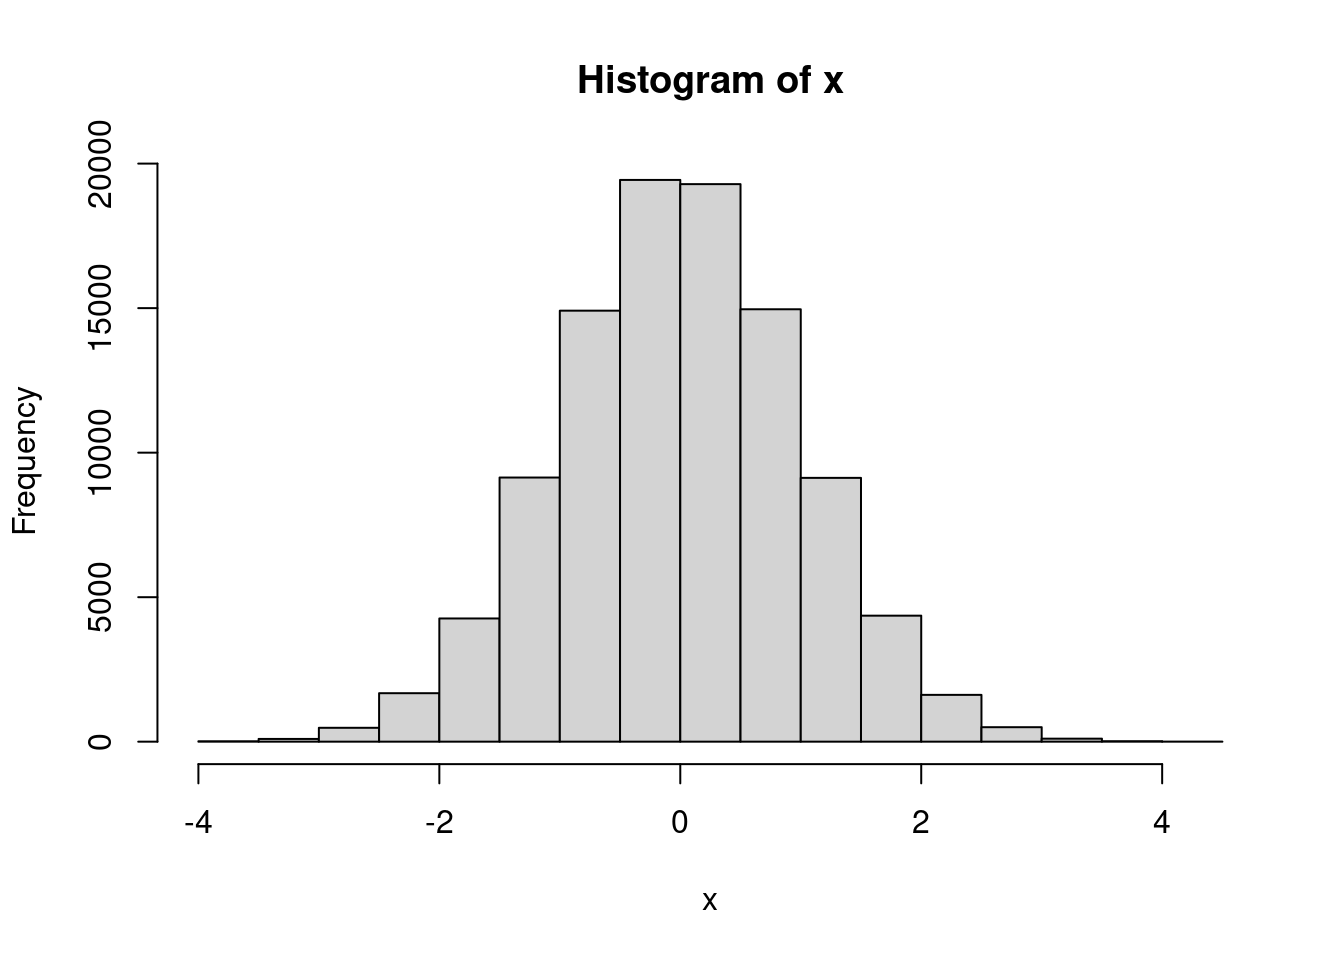
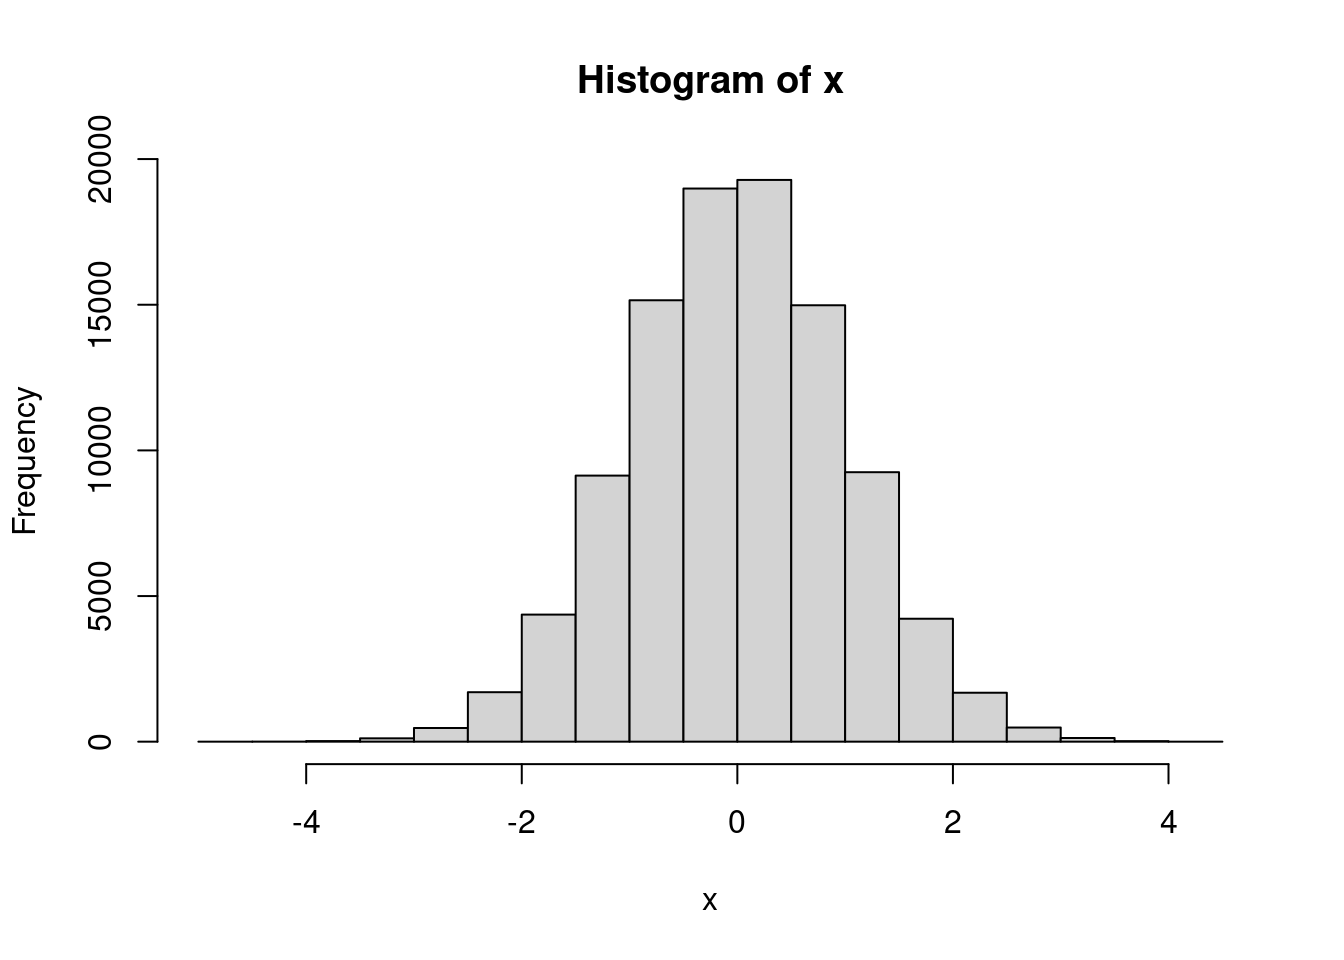
Deploying to gh-pages from @ tidyverse/design@dd1459c90f81d67872ce4a16c97231b60ae31a4d 🚀

diff --git a/spooky-action.html b/spooky-action.html
@@ -520,7 +520,7 @@ pre > code.sourceCode > span > a:first-child::before { text-decoration: underlin
 <span>  <span class="fu">lubridate</span><span class="fu">::</span><span class="fu"><a href="https://lubridate.tidyverse.org/reference/now.html">now</a></span><span class="op">(</span><span class="op">)</span></span>
 <span><span class="op">}</span></span>
 <span><span class="fu">current_time</span><span class="op">(</span><span class="op">)</span></span>
-<span><span class="co">#&gt; [1] "2023-07-20 19:16:26 UTC"</span></span></code><button title="Copy to Clipboard" class="code-copy-button"><i class="bi"></i></button></pre></div>
+<span><span class="co">#&gt; [1] "2023-07-20 19:20:27 UTC"</span></span></code><button title="Copy to Clipboard" class="code-copy-button"><i class="bi"></i></button></pre></div>
 </div>
 </section><section id="ask-for-confirmation" class="level3" data-number="32.3.3"><h3 data-number="32.3.3" class="anchored" data-anchor-id="ask-for-confirmation">
 <span class="header-section-number">32.3.3</span> Ask for confirmation</h3>
@@ -671,8 +671,8 @@ pre > code.sourceCode > span > a:first-child::before { text-decoration: underlin
 <span></span>
 <span><span class="fu"><a href="https://rdrr.io/r/base/cbind.html">rbind</a></span><span class="op">(</span><span class="va">x</span>, <span class="va">out</span><span class="op">)</span></span>
 <span><span class="co">#&gt;     [,1] [,2] [,3] [,4] [,5] [,6] [,7] [,8] [,9] [,10]</span></span>
-<span><span class="co">#&gt; x      7   13    9    8   14   14    7   13   10    13</span></span>
-<span><span class="co">#&gt; out    7   20   29   37   51   65   72   85   95   108</span></span></code><button title="Copy to Clipboard" class="code-copy-button"><i class="bi"></i></button></pre></div>
+<span><span class="co">#&gt; x     13   13    8    7   10   17   10   14   11    14</span></span>
+<span><span class="co">#&gt; out   13   26   34   41   51   68   78   92  103   117</span></span></code><button title="Copy to Clipboard" class="code-copy-button"><i class="bi"></i></button></pre></div>
 </div>
 <p>A simple transformation from to use <code><a href="https://purrr.tidyverse.org/reference/map.html">map()</a></code> doesn’t work:</p>
 <div class="cell" data-hash="spooky-action_cache/html/unnamed-chunk-15_88f7eda8454a50bac907f06071f5cfbc">
@@ -685,7 +685,7 @@ pre > code.sourceCode > span > a:first-child::before { text-decoration: underlin
 <span>    <span class="va">out</span><span class="op">[[</span><span class="va">i</span><span class="op">]</span><span class="op">]</span> <span class="op">&lt;-</span> <span class="va">x</span><span class="op">[[</span><span class="va">i</span><span class="op">]</span><span class="op">]</span> <span class="op">+</span> <span class="va">out</span><span class="op">[[</span><span class="va">i</span> <span class="op">-</span> <span class="fl">1</span><span class="op">]</span><span class="op">]</span></span>
 <span>  <span class="op">}</span></span>
 <span><span class="op">}</span><span class="op">)</span></span>
-<span><span class="co">#&gt;  [1]  7 13  9  8 14 14  7 13 10 13</span></span></code><button title="Copy to Clipboard" class="code-copy-button"><i class="bi"></i></button></pre></div>
+<span><span class="co">#&gt;  [1] 13 13  8  7 10 17 10 14 11 14</span></span></code><button title="Copy to Clipboard" class="code-copy-button"><i class="bi"></i></button></pre></div>
 </div>
 <p>Because the modification of <code>out</code> is happening inside of a function, R creates a copy of <code>out</code> (this is called <a href="https://adv-r.hadley.nz/names-values.html#copy-on-modify">copy-on-modify principle</a>). Instead we need to use <code>&lt;&lt;-</code> to reach outside of the function to modify the outer <code>out</code>:</p>
 <div class="cell" data-hash="spooky-action_cache/html/unnamed-chunk-16_8c6961ff51700fbd420c7e2cf12a76b0">
@@ -696,7 +696,7 @@ pre > code.sourceCode > span > a:first-child::before { text-decoration: underlin
 <span>    <span class="va">out</span><span class="op">[[</span><span class="va">i</span><span class="op">]</span><span class="op">]</span> <span class="op">&lt;&lt;-</span> <span class="va">x</span><span class="op">[[</span><span class="va">i</span><span class="op">]</span><span class="op">]</span> <span class="op">+</span> <span class="va">out</span><span class="op">[[</span><span class="va">i</span> <span class="op">-</span> <span class="fl">1</span><span class="op">]</span><span class="op">]</span></span>
 <span>  <span class="op">}</span></span>
 <span><span class="op">}</span><span class="op">)</span></span>
-<span><span class="co">#&gt;  [1]   7  20  29  37  51  65  72  85  95 108</span></span></code><button title="Copy to Clipboard" class="code-copy-button"><i class="bi"></i></button></pre></div>
+<span><span class="co">#&gt;  [1]  13  26  34  41  51  68  78  92 103 117</span></span></code><button title="Copy to Clipboard" class="code-copy-button"><i class="bi"></i></button></pre></div>
 </div>
 <p>This use of <code>&lt;&lt;-</code> is a spooky action because we’re reaching up the tree of environments to modify an object created outside of the function. In this case, however, there’s no point in using <code><a href="https://purrr.tidyverse.org/reference/map.html">map()</a></code>: the point of those functions is to restrict what you can do compared to a for loop so that your code is easier to understand. <a href="https://r4ds.had.co.nz/iteration.html#for-loop-variations">R for data science</a> has other examples of for loops that <em>could</em> be rewritten with <code><a href="https://purrr.tidyverse.org/reference/map.html">map()</a></code>, but shouldn’t be.</p>
 <p>Note that we could still wrap this code into a function to eliminate the spooky action:</p>

diff --git a/out-invisible.html b/out-invisible.html
@@ -512,20 +512,20 @@ pre > code.sourceCode > span > a:first-child::before { text-decoration: underlin
 <span>  <span class="fu"><a href="https://fs.r-lib.org/reference/path.html">path</a></span><span class="op">(</span><span class="va">letters</span><span class="op">[</span><span class="fl">1</span><span class="op">:</span><span class="fl">5</span><span class="op">]</span><span class="op">)</span> <span class="op"><a href="https://magrittr.tidyverse.org/reference/pipe.html">%&gt;%</a></span></span>
 <span>  <span class="fu"><a href="https://fs.r-lib.org/reference/create.html">file_create</a></span><span class="op">(</span><span class="op">)</span></span>
 <span><span class="va">paths</span></span>
-<span><span class="co">#&gt; /tmp/RtmpjkImbZ/file1cde52256884/a /tmp/RtmpjkImbZ/file1cde52256884/b </span></span>
-<span><span class="co">#&gt; /tmp/RtmpjkImbZ/file1cde52256884/c /tmp/RtmpjkImbZ/file1cde52256884/d </span></span>
-<span><span class="co">#&gt; /tmp/RtmpjkImbZ/file1cde52256884/e</span></span></code><button title="Copy to Clipboard" class="code-copy-button"><i class="bi"></i></button></pre></div>
+<span><span class="co">#&gt; /tmp/RtmpDKSPeC/file1cb92c65e61b/a /tmp/RtmpDKSPeC/file1cb92c65e61b/b </span></span>
+<span><span class="co">#&gt; /tmp/RtmpDKSPeC/file1cb92c65e61b/c /tmp/RtmpDKSPeC/file1cb92c65e61b/d </span></span>
+<span><span class="co">#&gt; /tmp/RtmpDKSPeC/file1cb92c65e61b/e</span></span></code><button title="Copy to Clipboard" class="code-copy-button"><i class="bi"></i></button></pre></div>
 </div>
 <p>Functions that modify some global state, like <code><a href="https://rdrr.io/r/base/options.html">options()</a></code> or <code><a href="https://rdrr.io/r/graphics/par.html">par()</a></code>, should return the <em>previous</em> value of the variables. This, in combination with <a href="def-required.html#sec-args-compound"><span>Section&nbsp;11.3.2</span></a>, makes it possible to easily reset the effect of the change:</p>
 <div class="cell" data-hash="out-invisible_cache/html/unnamed-chunk-6_f8776161c7006bd17b66da7e5c8c3688">
 <div class="sourceCode" id="cb4"><pre class="downlit sourceCode r code-with-copy"><code class="sourceCode R"><span><span class="va">x</span> <span class="op">&lt;-</span> <span class="fu"><a href="https://rdrr.io/r/stats/Uniform.html">runif</a></span><span class="op">(</span><span class="fl">1</span><span class="op">)</span></span>
 <span><span class="va">old</span> <span class="op">&lt;-</span> <span class="fu"><a href="https://rdrr.io/r/base/options.html">options</a></span><span class="op">(</span>digits <span class="op">=</span> <span class="fl">3</span><span class="op">)</span></span>
 <span><span class="va">x</span></span>
-<span><span class="co">#&gt; [1] 0.73</span></span>
+<span><span class="co">#&gt; [1] 0.687</span></span>
 <span></span>
 <span><span class="fu"><a href="https://rdrr.io/r/base/options.html">options</a></span><span class="op">(</span><span class="va">old</span><span class="op">)</span></span>
 <span><span class="va">x</span></span>
-<span><span class="co">#&gt; [1] 0.7296066</span></span></code><button title="Copy to Clipboard" class="code-copy-button"><i class="bi"></i></button></pre></div>
+<span><span class="co">#&gt; [1] 0.6873989</span></span></code><button title="Copy to Clipboard" class="code-copy-button"><i class="bi"></i></button></pre></div>
 </div>
 
 

diff --git a/side-effects.html b/side-effects.html
@@ -583,10 +583,10 @@ regression. This value is only computed when the summary is printed: you can see
 <div class="sourceCode" id="cb4"><pre class="downlit sourceCode r code-with-copy"><code class="sourceCode R"><span><span class="va">xhist</span> <span class="op">&lt;-</span> <span class="fu"><a href="https://rdrr.io/r/graphics/hist.html">hist</a></span><span class="op">(</span><span class="va">x</span>, plot <span class="op">=</span> <span class="cn">FALSE</span><span class="op">)</span></span>
 <span><span class="fu"><a href="https://rdrr.io/r/utils/str.html">str</a></span><span class="op">(</span><span class="va">xhist</span><span class="op">)</span></span>
 <span><span class="co">#&gt; List of 6</span></span>
-<span><span class="co">#&gt;  $ breaks  : num [1:18] -4 -3.5 -3 -2.5 -2 -1.5 -1 -0.5 0 0.5 ...</span></span>
-<span><span class="co">#&gt;  $ counts  : int [1:17] 14 96 480 1678 4263 9140 14911 19436 19289 14960 ...</span></span>
-<span><span class="co">#&gt;  $ density : num [1:17] 0.00028 0.00192 0.0096 0.03356 0.08526 ...</span></span>
-<span><span class="co">#&gt;  $ mids    : num [1:17] -3.75 -3.25 -2.75 -2.25 -1.75 -1.25 -0.75 -0.25 0.25 0.75 ...</span></span>
+<span><span class="co">#&gt;  $ breaks  : num [1:20] -5 -4.5 -4 -3.5 -3 -2.5 -2 -1.5 -1 -0.5 ...</span></span>
+<span><span class="co">#&gt;  $ counts  : int [1:19] 1 3 21 116 471 1698 4363 9134 15153 18990 ...</span></span>
+<span><span class="co">#&gt;  $ density : num [1:19] 0.00002 0.00006 0.00042 0.00232 0.00942 ...</span></span>
+<span><span class="co">#&gt;  $ mids    : num [1:19] -4.75 -4.25 -3.75 -3.25 -2.75 -2.25 -1.75 -1.25 -0.75 -0.25 ...</span></span>
 <span><span class="co">#&gt;  $ xname   : chr "x"</span></span>
 <span><span class="co">#&gt;  $ equidist: logi TRUE</span></span>
 <span><span class="co">#&gt;  - attr(*, "class")= chr "histogram"</span></span></code><button title="Copy to Clipboard" class="code-copy-button"><i class="bi"></i></button></pre></div>

diff --git a/changes-multivers.html b/changes-multivers.html
@@ -541,9 +541,9 @@ pre > code.sourceCode > span > a:first-child::before { text-decoration: underlin
 <span><span class="co">#&gt; # A tibble: 3 × 5</span></span>
 <span><span class="co">#&gt;   expression      min   median `itr/sec` mem_alloc</span></span>
 <span><span class="co">#&gt;   &lt;bch:expr&gt; &lt;bch:tm&gt; &lt;bch:tm&gt;     &lt;dbl&gt; &lt;bch:byt&gt;</span></span>
-<span><span class="co">#&gt; 1 version     547.1µs  598.7µs     1649.    4.01KB</span></span>
-<span><span class="co">#&gt; 2 exists        3.4µs    4.1µs   223971.    3.29MB</span></span>
-<span><span class="co">#&gt; 3 formals       1.7µs      2µs   422359.        0B</span></span></code><button title="Copy to Clipboard" class="code-copy-button"><i class="bi"></i></button></pre></div>
+<span><span class="co">#&gt; 1 version     377.2µs  390.4µs     2519.    4.01KB</span></span>
+<span><span class="co">#&gt; 2 exists        3.3µs    3.6µs   252322.    3.29MB</span></span>
+<span><span class="co">#&gt; 3 formals       1.4µs    1.6µs   491598.        0B</span></span></code><button title="Copy to Clipboard" class="code-copy-button"><i class="bi"></i></button></pre></div>
 </div>
 <p>If you do need to use <code><a href="https://rdrr.io/r/utils/packageDescription.html">packageVersion()</a></code> inside a performance sensitive function, I recommend caching the result in <code>.onLoad()</code> (which, by convention, lives in <code>zzz.R</code>). There a few ways to do this; but the following block shows one approach that matches the function interface I used above:</p>
 <div class="cell" data-hash="changes-multivers_cache/html/unnamed-chunk-8_5537f648fc4fa9d5537fa9178288362d">

diff --git a/def-required.html b/def-required.html
@@ -471,9 +471,9 @@ pre > code.sourceCode > span > a:first-child::before { text-decoration: underlin
 <p>In <code><a href="https://rdrr.io/r/base/sample.html">sample()</a></code> neither <code>x</code> not <code>size</code> has a default value, suggesting that both are required, and the function would error if you didn’t supply them. But <code>size</code> is optional, determined by a complex conditional.</p>
 <div class="cell" data-hash="def-required_cache/html/unnamed-chunk-2_5b1670f63da17bd82112061314f8cf05">
 <div class="sourceCode" id="cb1"><pre class="downlit sourceCode r code-with-copy"><code class="sourceCode R"><span><span class="fu"><a href="https://rdrr.io/r/base/sample.html">sample</a></span><span class="op">(</span><span class="fl">1</span><span class="op">:</span><span class="fl">4</span><span class="op">)</span></span>
-<span><span class="co">#&gt; [1] 1 4 3 2</span></span>
+<span><span class="co">#&gt; [1] 2 3 4 1</span></span>
 <span><span class="fu"><a href="https://rdrr.io/r/base/sample.html">sample</a></span><span class="op">(</span><span class="fl">4</span><span class="op">)</span></span>
-<span><span class="co">#&gt; [1] 2 4 1 3</span></span></code><button title="Copy to Clipboard" class="code-copy-button"><i class="bi"></i></button></pre></div>
+<span><span class="co">#&gt; [1] 3 2 4 1</span></span></code><button title="Copy to Clipboard" class="code-copy-button"><i class="bi"></i></button></pre></div>
 </div>
 </li>
 <li><p><code><a href="https://rdrr.io/r/stats/TDist.html">rt()</a></code> (draw random numbers from the t-distribution) looks like it requires the <code>ncp</code> parameter but it doesn’t.</p></li>

diff --git a/args-independence.html b/args-independence.html
@@ -484,7 +484,7 @@ pre > code.sourceCode > span > a:first-child::before { text-decoration: underlin
 <div class="sourceCode" id="cb2"><pre class="downlit sourceCode r code-with-copy"><code class="sourceCode R"><span><span class="fu"><a href="https://rdrr.io/r/stats/GammaDist.html">rgamma</a></span><span class="op">(</span><span class="fl">5</span>, shape <span class="op">=</span> <span class="fl">1</span>, rate <span class="op">=</span> <span class="fl">2</span>, scale <span class="op">=</span> <span class="fl">1</span><span class="op">/</span><span class="fl">2</span><span class="op">)</span></span>
 <span><span class="co">#&gt; Warning in rgamma(5, shape = 1, rate = 2, scale = 1/2): specify 'rate' or</span></span>
 <span><span class="co">#&gt; 'scale' but not both</span></span>
-<span><span class="co">#&gt; [1] 0.05048526 0.40263915 0.03253278 0.26286444 0.12213896</span></span>
+<span><span class="co">#&gt; [1] 0.9503771 0.1987073 2.0068222 0.1006241 0.4794693</span></span>
 <span><span class="fu"><a href="https://rdrr.io/r/stats/GammaDist.html">rgamma</a></span><span class="op">(</span><span class="fl">5</span>, shape <span class="op">=</span> <span class="fl">1</span>, rate <span class="op">=</span> <span class="fl">2</span>, scale <span class="op">=</span> <span class="fl">2</span><span class="op">)</span></span>
 <span><span class="co">#&gt; Error in rgamma(5, shape = 1, rate = 2, scale = 2): specify 'rate' or 'scale' but not both</span></span></code><button title="Copy to Clipboard" class="code-copy-button"><i class="bi"></i></button></pre></div>
 </div>

diff --git a/def-enum.html b/def-enum.html
@@ -513,7 +513,7 @@ pre > code.sourceCode > span > a:first-child::before { text-decoration: underlin
 <p>It also supports partial matching so that the following code is shorthand for `ties.method = “random”:</p>
 <div class="cell" data-hash="def-enum_cache/html/unnamed-chunk-5_d2417d6a7600cec9406ec012af6dbb1b">
 <div class="sourceCode" id="cb3"><pre class="downlit sourceCode r code-with-copy"><code class="sourceCode R"><span><span class="fu"><a href="https://rdrr.io/r/base/rank.html">rank</a></span><span class="op">(</span><span class="va">x</span>, ties.method <span class="op">=</span> <span class="st">"r"</span><span class="op">)</span></span>
-<span><span class="co">#&gt; [1] 1 2 3 4 5 6</span></span></code><button title="Copy to Clipboard" class="code-copy-button"><i class="bi"></i></button></pre></div>
+<span><span class="co">#&gt; [1] 1 2 3 4 6 5</span></span></code><button title="Copy to Clipboard" class="code-copy-button"><i class="bi"></i></button></pre></div>
 </div>
 <p>I generally believe that partial matching is a bad idea, because it makes code harder to read. <code><a href="https://rlang.r-lib.org/reference/arg_match.html">rlang::arg_match()</a></code> is an alternative to <code>match.args()</code> that doesn’t support partial matching. Instead it provides a helpful error message:</p>
 <div class="cell" data-hash="def-enum_cache/html/unnamed-chunk-6_7fb67aac1d1ef9395fd6919233e855cd">

diff --git a/index.html b/index.html
@@ -432,7 +432,7 @@ ul.task-list li input[type="checkbox"] {
 <li><p>Selected <strong>case studies</strong> that help you see how all the pieces fit together with real code.</p></li>
 </ul>
 <p>It is used by the tidyverse team to promote consistency across packages in the core tidyverse. But you can also use it to guide the design of your functions and packages to create interfaces that feel “tidy”, and fit in natural with other code that uses tidyverse idioms. It is a complement to <a href="http://style.tidyverse.org" class="uri">http://style.tidyverse.org</a>, which focusses on low-level code formatting.</p>
-<p>This book will be under heavy development for quite some time; currently we are loosely aiming for completion in 2020. You’ll find many chapters contain disjointed text that mostly serve as placeholders for the authors, and I do not recommend attempting to systematically read the book at this time.</p>
+<p>This book will be under heavy development for quite some time; currently we are loosely aiming for completion in 2025. You’ll find many chapters contain disjointed text that mostly serve as placeholders for the authors, and I do not recommend attempting to systematically read the book at this time.</p>
 
 
 </section></main><!-- /main --><script id="quarto-html-after-body" type="application/javascript">

diff --git a/def-magical.html b/def-magical.html
@@ -523,7 +523,7 @@ pre > code.sourceCode > span > a:first-child::before { text-decoration: underlin
 <span><span class="co">#&gt;         X/(X + rchisq(n, 2 * shape2))</span></span>
 <span><span class="co">#&gt;     }</span></span>
 <span><span class="co">#&gt; }</span></span>
-<span><span class="co">#&gt; &lt;bytecode: 0x55de2d15ccb8&gt;</span></span>
+<span><span class="co">#&gt; &lt;bytecode: 0x563a713d9c80&gt;</span></span>
 <span><span class="co">#&gt; &lt;environment: namespace:stats&gt;</span></span></code><button title="Copy to Clipboard" class="code-copy-button"><i class="bi"></i></button></pre></div>
 </div>
 </li>
